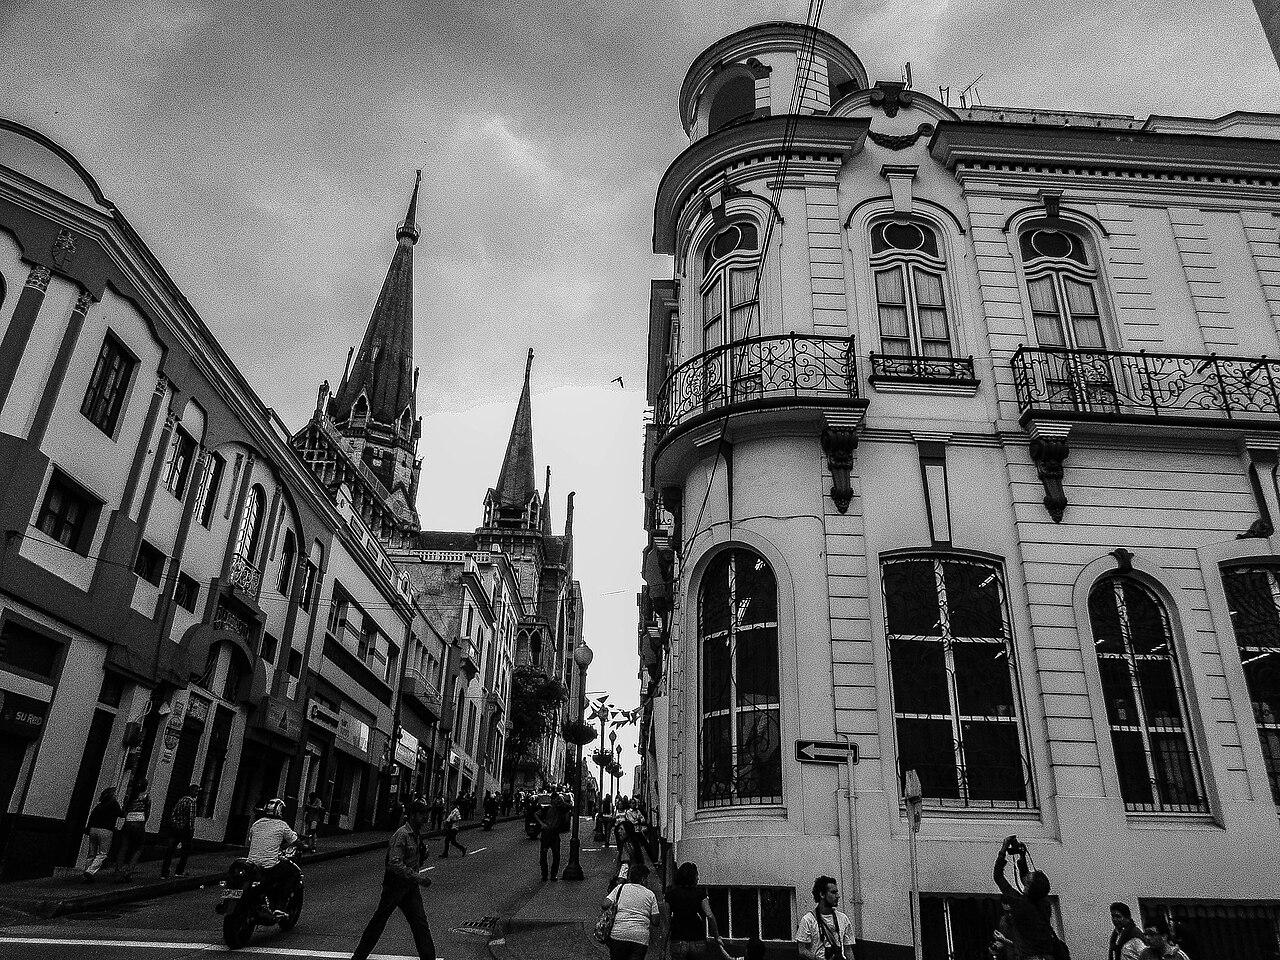
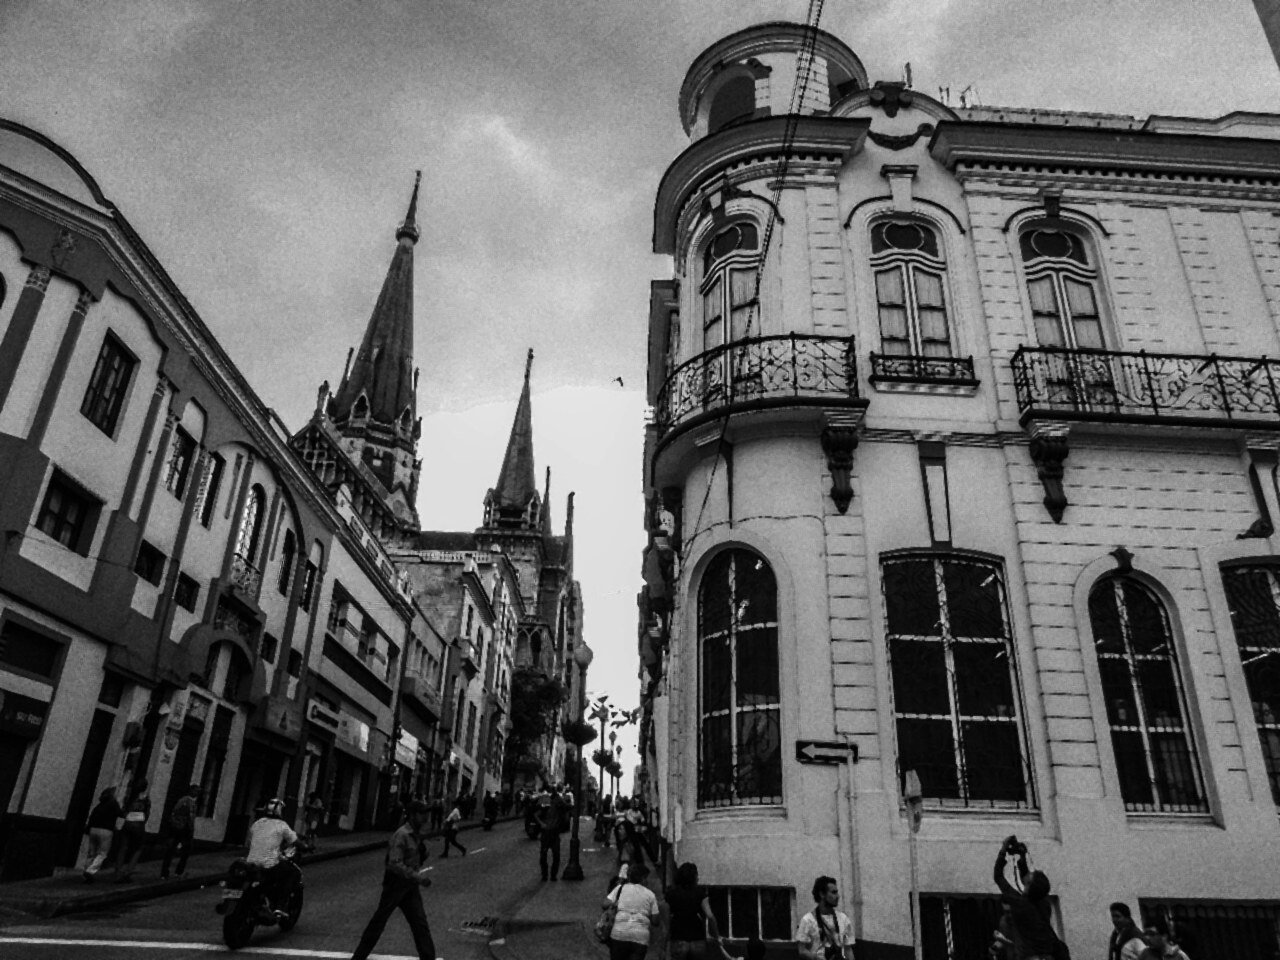
Fotos: menos ruido en las tres de Wikimedia y sin contraste extra en el blanco y negro (se veían pixeladas)

diff --git a/css/estilos.css b/css/estilos.css
@@ -631,7 +631,7 @@ tfoot td { font-weight: 700; border-bottom: 0; border-top: 2px solid var(--noche
 .f-lead { color: rgba(255, 255, 255, .9); font-size: 20px; max-width: 32em; }
 .f-collage { position: relative; height: 520px; }
 .f-mancha { position: absolute; right: -60px; top: -30px; width: 470px; height: 470px; background: var(--amarillo); border-radius: 46% 54% 38% 62% / 55% 38% 62% 45%; }
-.f-collage img { position: absolute; object-fit: cover; border: 8px solid #fff; box-shadow: 0 20px 40px rgba(0, 0, 0, .3); filter: grayscale(1) contrast(1.05); }
+.f-collage img { position: absolute; object-fit: cover; border: 8px solid #fff; box-shadow: 0 20px 40px rgba(0, 0, 0, .3); filter: grayscale(1); }
 .f-c1 { width: 330px; height: 400px; right: 40px; top: 30px; border-radius: 180px 180px 24px 24px; }
 .f-c2 { width: 210px; height: 210px; left: 10px; bottom: 10px; border-radius: 50%; filter: none !important; }
 .f-c3 { width: 170px; height: 220px; right: -10px; bottom: -20px; border-radius: 24px; }
